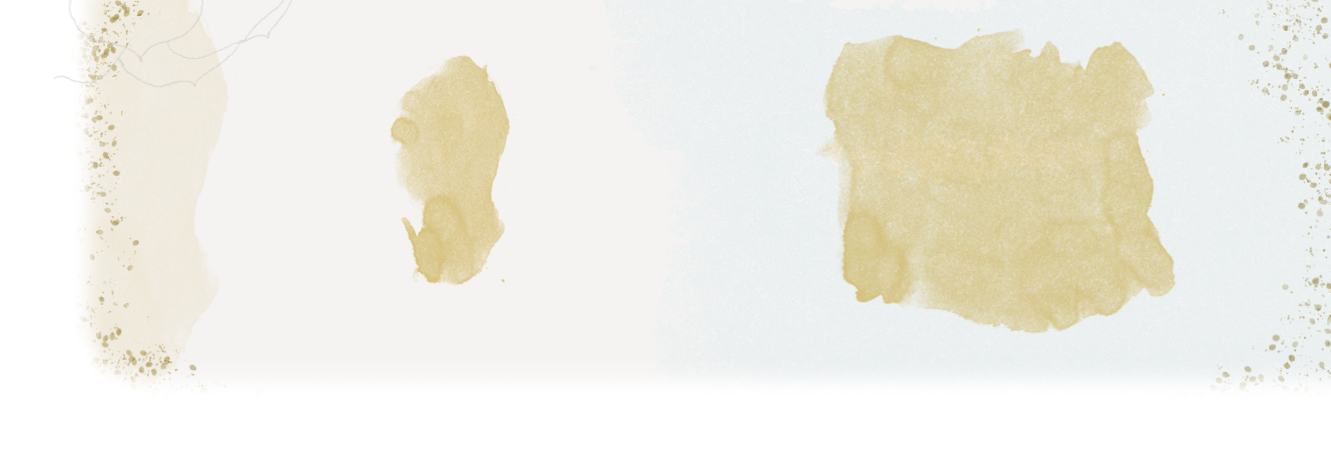
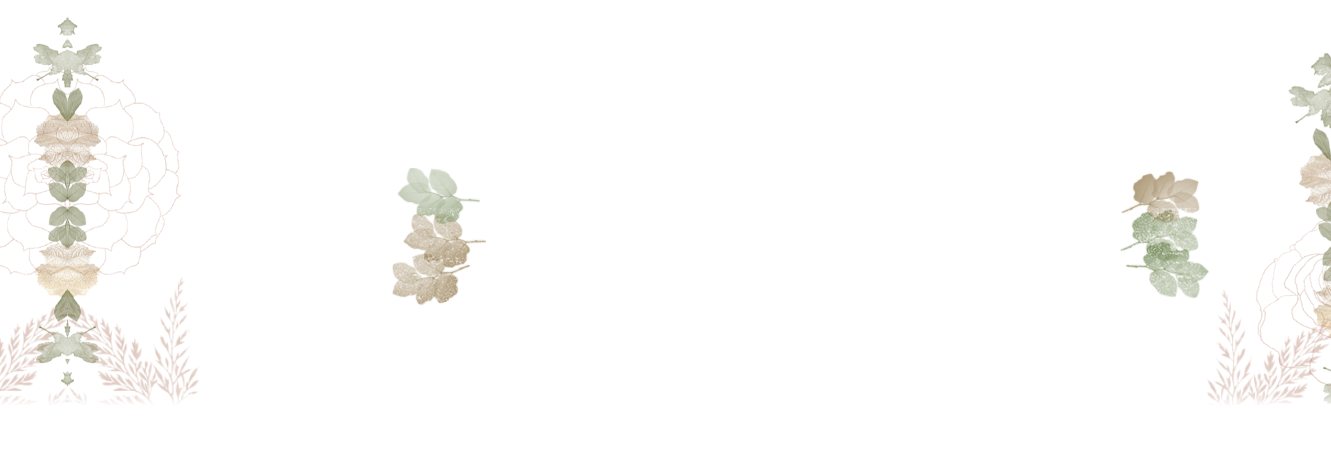
look nuevo

diff --git a/templates/home/index.html b/templates/home/index.html
@@ -23,27 +23,27 @@
     </div>
     <div class="estilodevida clearfix">
         <a href="/store">
-        <img class="image" src="https://static.loadingplay.com/static/images/200_4d37694200e2c8f038c382354ae2773c_shopnow2.png" lp-load-big="https://static.loadingplay.com/static/images/4d37694200e2c8f038c382354ae2773c_shopnow2.png">
+        <img class="image" src="https://static.loadingplay.com/static/images/200_a1668b4553223b41bf8911a67af16aed_IR-A-LA-TIENDA.png" lp-load-big="https://static.loadingplay.com/static/images/a1668b4553223b41bf8911a67af16aed_IR-A-LA-TIENDA.png">
         </a>
     </div>
     <div class="queeslonuevo clearfix">
         <a href="/store">
-        <img class="image" src="https://static.loadingplay.com/static/images/200_22bbd8d223ee514c1f5fd7388272ff12_banner-lo-nuevo1.png" lp-load-big="https://static.loadingplay.com/static/images/22bbd8d223ee514c1f5fd7388272ff12_banner-lo-nuevo1.png">
+        <img class="image" src="https://static.loadingplay.com/static/images/200_025f8d549e884f8be5c231e5f810a0af_Nuevo.png" lp-load-big="https://static.loadingplay.com/static/images/025f8d549e884f8be5c231e5f810a0af_Nuevo.png">
         </a>
     </div>
     <div class="queeslonuevo-small">
         <a href="/store">
-        <img class="slide" src="https://static.loadingplay.com/static/images/200_b5343d29a3389a38fabacc68d2461a04_movil.png" lp-load-big="https://static.loadingplay.com/static/images/b5343d29a3389a38fabacc68d2461a04_movil.png" >
+        <img class="slide" src="https://static.loadingplay.com/static/images/200_44f0b58bbf0f8c976438c7a820124f12_nuevox.png" lp-load-big="https://static.loadingplay.com/static/images/44f0b58bbf0f8c976438c7a820124f12_nuevox.png" >
         </a>
     </div>
     <div class="comunidad clearfix">
         <a href="https://instagram.com/gianidafirenze/" target="_blank">
-        <img class="image" src="https://static.loadingplay.com/static/images/200_71f38401bb8a784471391c4a16e93717_comunidad2.png" lp-load-big="https://static.loadingplay.com/static/images/71f38401bb8a784471391c4a16e93717_comunidad2.png">
+        <img class="image" src="https://static.loadingplay.com/static/images/200_36ed0cf8cfe89c76d275bbba56ad4f59_INSTAGRAM.png" lp-load-big="https://static.loadingplay.com/static/images/36ed0cf8cfe89c76d275bbba56ad4f59_INSTAGRAM.png">
         </a>
     </div>
     <div class="tienda clearfix">
         <a href="/history">
-        <img class="image" src="https://static.loadingplay.com/static/images/200_0af2c225986f30e620ad5a003bedfaee_nuestra-historia2.png" lp-load-big="https://static.loadingplay.com/static/images/0af2c225986f30e620ad5a003bedfaee_nuestra-historia2.png">
+        <img class="image" src="https://static.loadingplay.com/static/images/200_e798efe7af149c739f54a42d92339a71_Nosotros.png" lp-load-big="https://static.loadingplay.com/static/images/e798efe7af149c739f54a42d92339a71_Nosotros.png">
         </a>
         
     </div>

diff --git a/templates/slider.html b/templates/slider.html
@@ -1,15 +1,15 @@
     <div class="swiper-container content-13-inch" style="margin-top: 20px; margin-bottom: 20px;">
         <div class="swiper-wrapper">
             <div class="swiper-slide"> 
-                <img class="slider" u="image" src="https://static.loadingplay.com/static/images/200_427a012637fd8f5de405ab29a1fb47dc_pronto1.png" lp-load-big="https://static.loadingplay.com/static/images/427a012637fd8f5de405ab29a1fb47dc_pronto1.png" />
+                <a href="/store"><img class="slider" u="image" src="https://static.loadingplay.com/static/images/200_c682ee78da3946097c0f752fcf1e445e_1.png" lp-load-big="https://static.loadingplay.com/static/images/c682ee78da3946097c0f752fcf1e445e_1.png" /></a>
 	            <img class="slider-small" src="/static/images/Banner-movil1.png">
 	        </div>
-            <!-- <div class="swiper-slide">
-                <img class="slider"u="image" src="https://static.loadingplay.com/static/images/200_efeea2bac8841e40b5fdf8f3f2a8ea07_pronto2.png" lp-load-big="https://static.loadingplay.com/static/images/efeea2bac8841e40b5fdf8f3f2a8ea07_pronto2.png" />
-	            <img class="slider-small" src="/static/images/Banner-movil2.png">
-	        </div> -->
             <div class="swiper-slide">
-                <img class="slider"u="image" src="https://static.loadingplay.com/static/images/200_d5c79811be2866d625e176a2cc9048f2_pronto3.png" lp-load-big="https://static.loadingplay.com/static/images/d5c79811be2866d625e176a2cc9048f2_pronto3.png"/>
+                <img class="slider"u="image" src="https://static.loadingplay.com/static/images/200_163ae6c1562d849bf4fc0c7d4b79bfa3_2.png" lp-load-big="https://static.loadingplay.com/static/images/163ae6c1562d849bf4fc0c7d4b79bfa3_2.png" />
+	            <img class="slider-small" src="/static/images/Banner-movil2.png">
+	        </div> 
+            <div class="swiper-slide">
+                <img class="slider"u="image" src="https://static.loadingplay.com/static/images/200_ac84ae512089b87fe58d95eebee4cd1b_3.png" lp-load-big="https://static.loadingplay.com/static/images/ac84ae512089b87fe58d95eebee4cd1b_3.png"/>
 	            <img class="slider-small" src="/static/images/Banner-movil3.png">
 	        </div>
         </div>

diff --git a/static/css/footer.css b/static/css/footer.css
@@ -4,7 +4,7 @@
   clear: both;
   width: 100%;
   margin-top: 20px;
-  background-color: #f7f4f2;
+  background-color: #FFFFFF;
   background-image: url(/static/images/footer.png);
   background-repeat: no-repeat;
   background-position: top right;
